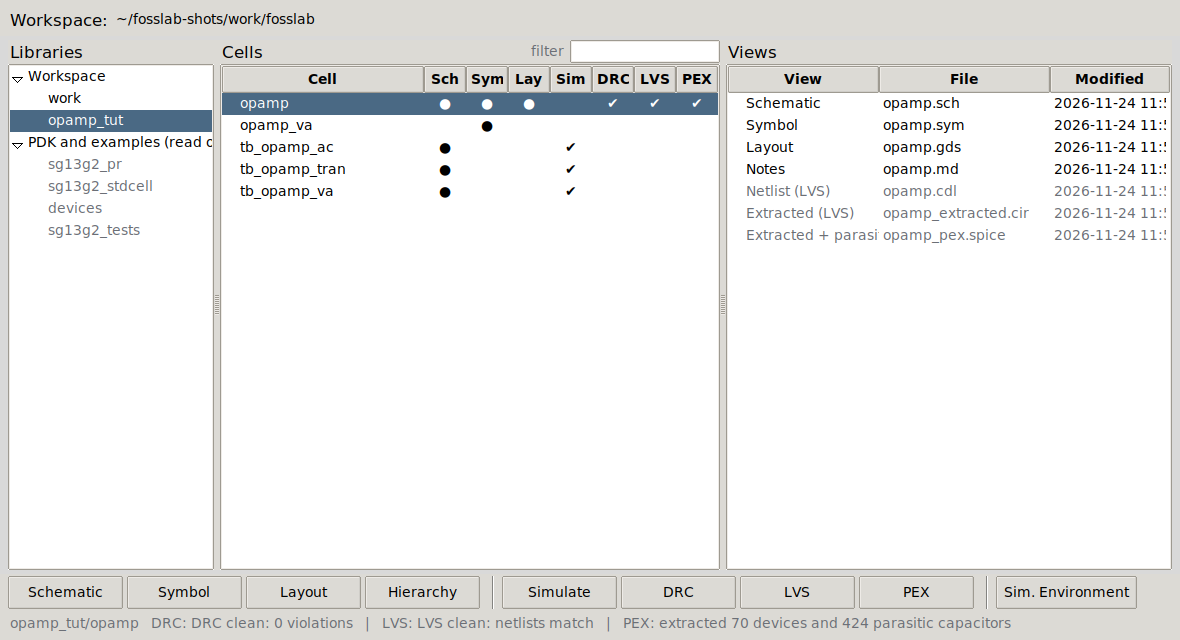
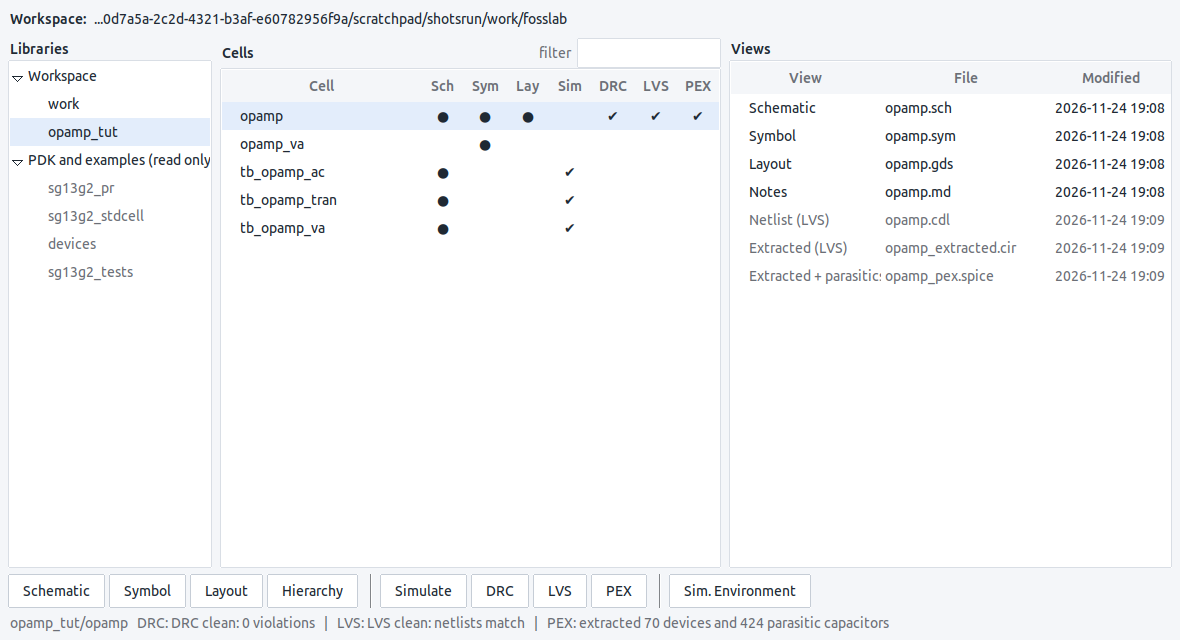
New interface (default) with Tools > Interface selector
A flat, light ttk theme with a modern font, roomier lists, accent colour and
new check boxes; the classical look stays selectable. The choice switches
every open window at once and is remembered per user. Column widths follow
the font; bold fonts are no longer deleted early. Tutorial screenshots
retaken in the new interface.

diff --git a/wordpress/fosslab-tutorial/content/01-getting-started.html b/wordpress/fosslab-tutorial/content/01-getting-started.html
@@ -20,7 +20,7 @@
 <h3>3. The window, part by part</h3>
 <table>
 <tr><th></th><th>Part</th><th>What it is for</th></tr>
-<tr><td><span class="fl-n">1</span></td><td>Menus</td><td><em>File</em>: new library, new cell, open a terminal in the workspace. <em>Cell</em>: everything you can do with the selected cell (new view, copy, rename, delete, run a flow, see its results). <em>Tools</em>: start xschem, KLayout or Magic on their own, run the self-test. <em>Help</em>: this tutorial and a quick guide.</td></tr>
+<tr><td><span class="fl-n">1</span></td><td>Menus</td><td><em>File</em>: new library, new cell, open a terminal in the workspace. <em>Cell</em>: everything you can do with the selected cell (new view, copy, rename, delete, run a flow, see its results). <em>Tools</em>: start xschem, KLayout or Magic on their own, run the self-test, and choose the look under <em>Tools run the self-test. <em>Help</em>gt; Interface</em> (<em>New</em>, the default, or <em>Classical</em>). <em>Help</em>: this tutorial and a quick guide.</td></tr>
 <tr><td><span class="fl-n">2</span></td><td>Workspace</td><td>The folder that holds all your work, <code>~/fosslab</code>. Keep your designs inside it: your teacher can look at it to help you.</td></tr>
 <tr><td><span class="fl-n">3</span></td><td>Libraries</td><td>Yours under <em>Workspace</em> (here <code>work</code> and <code>opamp_tut</code>). Below, the IHP PDK libraries, greyed because they are read only: <code>sg13g2_pr</code> (transistors, resistors, capacitors), <code>sg13g2_stdcell</code> (logic gates), <code>devices</code> (sources, ground, pins), <code>sg13g2_tests</code> (IHP's example testbenches). Click a library to see its cells.</td></tr>
 <tr><td><span class="fl-n">4</span></td><td>Cells</td><td>The cells of the selected library: the circuits (<code>opamp</code>), their models (<code>opamp_va</code>) and their testbenches (<code>tb_…</code>). Type in <em>filter</em> to find one in a long list.</td></tr>

diff --git a/app/fosslab/gui/style.py b/app/fosslab/gui/style.py
@@ -1,12 +1,23 @@
-"""Fonts, colours and ttk styles shared by all windows."""
+"""Fonts, colours and ttk styles shared by all windows.
+
+Two interfaces, chosen in Tools > Interface and remembered per user
+(~/.config/fosslab/gui.json, or FOSSLAB_UI=new|classic):
+
+- new: a flat, light theme (ttk theme "fosslab", built on clam) with a
+  modern font, roomier lists and an accent colour;
+- classic: the plain clam look of the first FOSSLab versions.
+"""
 
 from __future__ import annotations
 
+import json
+import os
 import tkinter as tk
+from pathlib import Path
 from tkinter import font as tkfont
 from tkinter import ttk
 
-MONO = ("DejaVu Sans Mono", 10)
+MONO = "TkFixedFont"   # a named font: follows the interface
 
 PASS = "#1b7f3b"
 FAIL = "#b3261e"
@@ -17,25 +28,101 @@ RO_BG = "#fff4e5"
 
 MARK = {"pass": "✔", "fail": "✘", "error": "!", "": ""}
 
-_done: set[int] = set()
+MODES = ("new", "classic")
+_PREFS = Path(os.environ.get("XDG_CONFIG_HOME") or Path.home() / ".config") / "fosslab" / "gui.json"
+
+# the new interface's palette
+BG = "#f4f6f9"        # window
+SURFACE = "#ffffff"   # lists, entries, text
+LINE = "#d9dee5"      # borders
+HOVER = "#eaeef3"
+TEXT = "#1f2933"
+SOFT = "#e3edfb"      # selected row
+BLUE = "#2563eb"      # accent
+BLUE_DARK = "#1d4ed8"
+
+BTN_LINE = "#c6cdd6"
+
+_applied: dict[int, str] = {}
+_keep: list = []      # fonts and images Tk styles refer to: Python must not delete them
 
 
-def apply(widget: tk.Misc) -> None:
+def mode() -> str:
+    env = os.environ.get("FOSSLAB_UI", "").lower()
+    if env in MODES:
+        return env
+    try:
+        m = json.loads(_PREFS.read_text()).get("interface", "new")
+        return m if m in MODES else "new"
+    except (OSError, ValueError, AttributeError):
+        return "new"
+
+
+def save_mode(m: str) -> None:
+    try:
+        _PREFS.parent.mkdir(parents=True, exist_ok=True)
+        try:
+            d = json.loads(_PREFS.read_text())
+        except (OSError, ValueError):
+            d = {}
+        d["interface"] = m
+        _PREFS.write_text(json.dumps(d, indent=1) + "\n")
+    except OSError:
+        pass
+
+
+def _family(root: tk.Misc, *names: str) -> str | None:
+    have = set(tkfont.families(root))
+    return next((n for n in names if n in have), None)
+
+
+def apply(widget: tk.Misc, m: str | None = None) -> None:
+    """Style the application (once per Tk instance, or again to switch interface)."""
+
     root = widget.winfo_toplevel()
     key = id(root.tk)
-    if key in _done:
+    m = m or _applied.get(key) or mode()
+    if _applied.get(key) == m:
         return
-    _done.add(key)
+    _applied[key] = m
     s = ttk.Style(root)
-    if "clam" in s.theme_names():
-        s.theme_use("clam")
+    root.option_add("*Menu.tearOff", 0)
+    if m == "new":
+        _new(root, s)
+    else:
+        _classic(root, s)
+    _restyle_tk(root, m)
+
+
+def _fonts(root, family: str | None, size: int, mono: str | None) -> tuple:
+    for name in ("TkDefaultFont", "TkTextFont", "TkMenuFont", "TkHeadingFont", "TkCaptionFont",
+                 "TkSmallCaptionFont", "TkIconFont", "TkTooltipFont"):
+        f = tkfont.nametofont(name)
+        f.configure(size=size, weight="normal", slant="roman")
+        if family:
+            f.configure(family=family)
+    tkfont.nametofont("TkFixedFont").configure(size=size, **({"family": mono} if mono else {}))
     base = tkfont.nametofont("TkDefaultFont")
-    base.configure(size=10)
     bold = base.copy()
     bold.configure(weight="bold")
     big = base.copy()
-    big.configure(size=12, weight="bold")
-    s.configure("Treeview", rowheight=22)
+    big.configure(size=size + 2, weight="bold")
+    _keep.extend((bold, big))
+    return base, bold, big
+
+
+def col_width(widget: tk.Misc, text: str, minimum: int = 40) -> int:
+    """Width of a list column whose heading is ``text``, in the current interface."""
+
+    f = tkfont.nametofont("TkHeadingFont", root=widget)
+    bold = f.copy()
+    bold.configure(weight="bold")
+    w = bold.measure(text)
+    del bold
+    return max(minimum, w + 16)
+
+
+def _common(s: ttk.Style, bold, big) -> None:
     s.configure("Banner.TLabel", font=big)
     s.configure("Pass.TLabel", font=big, foreground=PASS)
     s.configure("Fail.TLabel", font=big, foreground=FAIL)
@@ -43,5 +130,178 @@ def apply(widget: tk.Misc) -> None:
     s.configure("Head.TLabel", font=bold)
     s.configure("Muted.TLabel", foreground=MUTED)
     s.configure("RO.TLabel", background=RO_BG, foreground=WARN, font=bold, padding=(8, 2))
+
+
+def _classic(root, s: ttk.Style) -> None:
+    if "clam" in s.theme_names():
+        s.theme_use("clam")
+    _, bold, big = _fonts(root, _family(root, "DejaVu Sans"), 10, _family(root, "DejaVu Sans Mono"))
+    s.configure("Treeview", rowheight=22)
+    _common(s, bold, big)
     s.configure("Accent.TButton", font=bold)
-    root.option_add("*Menu.tearOff", 0)
+
+
+def _new(root, s: ttk.Style) -> None:
+    family = _family(root, "Ubuntu Sans", "Ubuntu", "Lato", "Noto Sans", "Cantarell", "DejaVu Sans")
+    mono = _family(root, "Ubuntu Sans Mono", "Ubuntu Mono", "Noto Sans Mono", "DejaVu Sans Mono")
+    base, bold, big = _fonts(root, family, 10, mono)
+    semi = bold
+    if "fosslab" not in s.theme_names():
+        s.theme_create("fosslab", parent="clam")
+    s.theme_use("fosslab")
+    flat = dict(bordercolor=LINE, lightcolor=SURFACE, darkcolor=SURFACE)
+    s.configure(".", background=BG, foreground=TEXT, troughcolor=BG, focuscolor=BLUE,
+                selectbackground=SOFT, selectforeground=TEXT, fieldbackground=SURFACE,
+                insertcolor=TEXT, **flat)
+    s.configure("TFrame", background=BG)
+    s.configure("TLabel", background=BG, foreground=TEXT)
+    s.configure("TButton", background=SURFACE, padding=(12, 5), relief="raised", anchor="center",
+                bordercolor=BTN_LINE, lightcolor=SURFACE, darkcolor=SURFACE)
+    s.map("TButton", relief=[("pressed", "raised")], background=[("disabled", BG), ("pressed", LINE), ("active", HOVER)],
+          bordercolor=[("focus", BLUE)], foreground=[("disabled", MUTED)],
+          lightcolor=[("pressed", LINE), ("active", HOVER)], darkcolor=[("pressed", LINE), ("active", HOVER)])
+    s.configure("Accent.TButton", background=BLUE, foreground="#ffffff", font=semi,
+                bordercolor=BLUE, lightcolor=BLUE, darkcolor=BLUE)
+    s.map("Accent.TButton", background=[("disabled", LINE), ("pressed", BLUE_DARK), ("active", BLUE_DARK)],
+          foreground=[("disabled", MUTED)], bordercolor=[("active", BLUE_DARK)],
+          lightcolor=[("active", BLUE_DARK)], darkcolor=[("active", BLUE_DARK)])
+    s.configure("TEntry", padding=(6, 4), **flat)
+    s.map("TEntry", bordercolor=[("focus", BLUE)], lightcolor=[("focus", SURFACE)])
+    s.configure("TCombobox", padding=(6, 4), arrowcolor=TEXT, background=SURFACE, **flat)
+    s.map("TCombobox", bordercolor=[("focus", BLUE)], fieldbackground=[("readonly", SURFACE)],
+          background=[("active", HOVER)], selectbackground=[("readonly", SURFACE)],
+          selectforeground=[("readonly", TEXT)])
+    s.configure("TSpinbox", padding=(6, 4), arrowcolor=TEXT, background=SURFACE, **flat)
+    _indicators(root, s)
+    s.configure("TCheckbutton", background=BG)
+    s.map("TCheckbutton", background=[("active", BG)])
+    s.configure("TRadiobutton", background=BG)
+    s.map("TRadiobutton", background=[("active", BG)])
+    s.configure("Treeview", background=SURFACE, fieldbackground=SURFACE, rowheight=28, **flat)
+    s.map("Treeview", background=[("selected", SOFT)], foreground=[("selected", TEXT)])
+    s.configure("Treeview.Heading", background=BG, foreground=MUTED, font=semi, relief="flat",
+                padding=(6, 5), bordercolor=LINE, lightcolor=BG, darkcolor=BG)
+    s.map("Treeview.Heading", background=[("active", HOVER)])
+    s.configure("TNotebook", background=BG, tabmargins=(0, 4, 0, 0), **flat)
+    s.configure("TNotebook.Tab", background=BG, foreground=MUTED, padding=(14, 6), **flat)
+    s.map("TNotebook.Tab", background=[("selected", SURFACE), ("active", HOVER)],
+          foreground=[("selected", BLUE)], lightcolor=[("selected", SURFACE)],
+          expand=[("selected", (0, 0, 0, 0))])
+    s.configure("TLabelframe", background=BG, **flat)
+    s.configure("TLabelframe.Label", background=BG, foreground=MUTED, font=semi)
+    s.configure("Horizontal.TProgressbar", thickness=8)
+    s.configure("TProgressbar", background=BLUE, troughcolor="#e6eaf0", bordercolor=LINE,
+                lightcolor=BLUE, darkcolor=BLUE, thickness=6)
+    s.configure("TScrollbar", background=BG, troughcolor=BG, arrowcolor=MUTED, gripcount=0,
+                bordercolor=BG, lightcolor=BG, darkcolor=BG)
+    s.map("TScrollbar", background=[("active", HOVER)])
+    s.configure("TPanedwindow", background=BG)
+    s.configure("Sash", sashthickness=8, gripcount=0, background=BG, lightcolor=BG, bordercolor=BG)
+    s.configure("TSeparator", background=LINE)
+    _common(s, semi, big)
+    s.configure("Head.TLabel", font=semi, foreground=TEXT)
+    s.configure("RO.TLabel", padding=(10, 3))
+
+
+def _indicator_png(kind: str, on: bool, disabled: bool) -> bytes | None:
+    """A 20x16 check box or radio button (drawn at 4x and reduced: smooth edges)."""
+
+    try:
+        import io
+        from PIL import Image, ImageDraw
+    except ImportError:
+        return None
+    k = 4
+    im = Image.new("RGBA", (20 * k, 16 * k), (0, 0, 0, 0))
+    d = ImageDraw.Draw(im)
+    box = (1 * k, 1 * k, 15 * k - 1, 15 * k - 1)
+    fill = (BLUE if not disabled else MUTED) if on else SURFACE
+    edge = (BLUE if not disabled else MUTED) if on else "#8d97a5"
+    if kind == "check":
+        d.rounded_rectangle(box, radius=3 * k, fill=fill, outline=edge, width=k + k // 2)
+        if on:
+            d.line([(4 * k, 8 * k), (7 * k, 11 * k), (12 * k, 5 * k)], fill="#ffffff", width=2 * k, joint="curve")
+    else:
+        d.ellipse(box, fill=SURFACE, outline=edge, width=k + k // 2 if not on else 5 * k)
+    im = im.resize((20, 16), Image.LANCZOS)
+    buf = io.BytesIO()
+    im.save(buf, "PNG")
+    return buf.getvalue()
+
+
+def _indicators(root, s: ttk.Style) -> None:
+    """Modern check boxes and radio buttons (image elements of the "fosslab" theme)."""
+
+    if "Fosslab.Checkbutton.indicator" in s.element_names():
+        return
+    import base64
+    imgs = {}
+    for kind in ("check", "radio"):
+        for on in (False, True):
+            for dis in (False, True):
+                png = _indicator_png(kind, on, dis)
+                if png is None:
+                    return
+                imgs[kind, on, dis] = tk.PhotoImage(master=root, data=base64.b64encode(png))
+    _keep.extend(imgs.values())
+    for kind, cls in (("check", "Checkbutton"), ("radio", "Radiobutton")):
+        s.element_create(f"Fosslab.{cls}.indicator", "image", imgs[kind, False, False],
+                         ("disabled", "selected", imgs[kind, True, True]),
+                         ("disabled", imgs[kind, False, True]),
+                         ("selected", imgs[kind, True, False]), sticky="w")
+        s.layout(f"T{cls}", [(f"{cls}.padding", {"sticky": "nswe", "children": [
+            (f"Fosslab.{cls}.indicator", {"side": "left", "sticky": ""}),
+            (f"{cls}.focus", {"side": "left", "sticky": "w", "children": [
+                (f"{cls}.label", {"sticky": "nswe"})]})]})])
+
+
+def _tk_colours(m: str) -> dict:
+    if m == "new":
+        return dict(menu=dict(background=SURFACE, foreground=TEXT, activebackground=SOFT,
+                              activeforeground=TEXT, relief="flat", borderwidth=1, activeborderwidth=0,
+                              selectcolor=BLUE),
+                    text=dict(background=SURFACE, foreground=TEXT, insertbackground=TEXT, relief="flat",
+                              borderwidth=0, highlightthickness=1, highlightbackground=LINE,
+                              highlightcolor=BLUE, selectbackground=SOFT, selectforeground=TEXT,
+                              padx=8, pady=6),
+                    window=BG)
+    return dict(menu=dict(background="#d9d9d9", foreground="#000000", activebackground="#ececec",
+                          activeforeground="#000000", relief="raised", borderwidth=1, activeborderwidth=1,
+                          selectcolor="#000000"),
+                text=dict(background="#ffffff", foreground="#000000", insertbackground="#000000",
+                          relief="sunken", borderwidth=1, highlightthickness=1, highlightbackground="#d9d9d9",
+                          highlightcolor="#000000", selectbackground="#c3c3c3", selectforeground="#000000",
+                          padx=1, pady=1),
+                window="#dcdad5")
+
+
+def _restyle_tk(root: tk.Misc, m: str) -> None:
+    """Colours of the plain Tk widgets (menus, text boxes, windows), new and existing."""
+
+    c = _tk_colours(m)
+    for k, v in c["menu"].items():
+        root.option_add(f"*Menu.{k}", v, "interactive")
+    for k, v in c["text"].items():
+        root.option_add(f"*Text.{k}", v, "interactive")
+    root.option_add("*Toplevel.background", c["window"], "interactive")
+    root.option_add("*Canvas.background", SURFACE if m == "new" else "#ffffff", "interactive")
+
+    def walk(w):
+        try:
+            if isinstance(w, tk.Menu):
+                w.configure(**c["menu"])
+            elif isinstance(w, tk.Text):
+                w.configure(**c["text"])
+            elif isinstance(w, (tk.Tk, tk.Toplevel)):
+                w.configure(background=c["window"])
+        except tk.TclError:
+            pass
+        for ch in w.winfo_children():
+            walk(ch)
+    walk(root)
+    try:  # the menu bar of every window
+        for w in [root] + [t for t in root.winfo_children() if isinstance(t, tk.Toplevel)]:
+            if w["menu"]:
+                w.nametowidget(w["menu"]).configure(**c["menu"])
+    except tk.TclError:
+        pass

diff --git a/app/fosslab/gui/app.py b/app/fosslab/gui/app.py
@@ -104,6 +104,13 @@ class MainWindow:
         t.add_separator()
         t.add_command(label="Run self-test (all tools and flows)", command=self.selftest)
         t.add_command(label="Retake tutorial screenshots...", command=self.open_shots)
+        t.add_separator()
+        ui = tk.Menu(t)
+        t.add_cascade(label="Interface", menu=ui)
+        self.ui_var = tk.StringVar(value=style.mode())
+        for value, label in (("new", "New interface"), ("classic", "Classical interface")):
+            ui.add_radiobutton(label=label, value=value, variable=self.ui_var,
+                               command=lambda: self.set_interface(self.ui_var.get()))
 
         h = tk.Menu(mb)
         mb.add_cascade(label="Help", menu=h)
@@ -160,7 +167,7 @@ class MainWindow:
         self.cell_tree.column("#0", width=200)
         for c, t in zip(cols, ("Sch", "Sym", "Lay", "Sim", "DRC", "LVS", "PEX")):
             self.cell_tree.heading(c, text=t)
-            self.cell_tree.column(c, width=42, anchor="center", stretch=False)
+            self.cell_tree.column(c, width=style.col_width(self.root, t, 42), anchor="center", stretch=False)
         self.cell_tree.tag_configure("fail", foreground=style.FAIL)
         self.cell_tree.pack(fill="both", expand=True)
         self.cell_tree.bind("<<TreeviewSelect>>", lambda e: self.refresh_views())
@@ -602,6 +609,14 @@ class MainWindow:
             tools.open_klayout(self.ws, gds, l2n=Path(out["lvsdb"][0]))
         elif st.get("log"):
             tools.open_editor(Path(st["log"]))
+
+    def set_interface(self, m: str) -> None:
+        """Tools > Interface: switch the look of every open window, and remember it."""
+        style.save_mode(m)
+        style.apply(self.root, m)
+        for c in self.cell_tree["columns"]:
+            self.cell_tree.column(c, width=style.col_width(self.root, self.cell_tree.heading(c, "text"), 42))
+        self._info("New interface." if m == "new" else "Classical interface.")
 
     def open_shots(self) -> None:
         from .shots_window import ShotsWindow

diff --git a/app/fosslab/gui/hierarchy_window.py b/app/fosslab/gui/hierarchy_window.py
@@ -40,7 +40,7 @@ class HierarchyWindow(tk.Toplevel):
         self.tree.heading("views", text="Views")
         for c, t in (("drc", "DRC"), ("lvs", "LVS"), ("pex", "PEX")):
             self.tree.heading(c, text=t)
-            self.tree.column(c, width=50, anchor="center", stretch=False)
+            self.tree.column(c, width=style.col_width(self, t, 50), anchor="center", stretch=False)
         self.tree.column("#0", width=230)
         self.tree.column("cell", width=280)
         self.tree.column("views", width=250)

diff --git a/app/fosslab/examples/capture.py b/app/fosslab/examples/capture.py
@@ -46,6 +46,7 @@ def run(out: Path, live: bool = False, echo: Echo = print) -> int:
         return 2
     out.mkdir(parents=True, exist_ok=True)
     env = dict(os.environ)
+    env.setdefault("FOSSLAB_UI", "new")    # the tutorial shows the new interface
     xvfb = None
     if not live:
         n = _free_display()

diff --git a/README.md b/README.md
@@ -179,6 +179,9 @@ Existing accounts are just added to the `fosslab` group. Every student gets
 - Reference library for the students, read only: each student adds
   `INCLUDE /home/<you>/fosslab/fosslab.lib` to `~/fosslab/fosslab.lib`
   (your workspace must be readable by group `fosslab`).
+- Look: *Tools > Interface > New / Classical* switches every open window at
+  once and is remembered per user (`~/.config/fosslab/gui.json`);
+  `FOSSLAB_UI=new|classic` overrides it.
 
 ### If something fails
 
